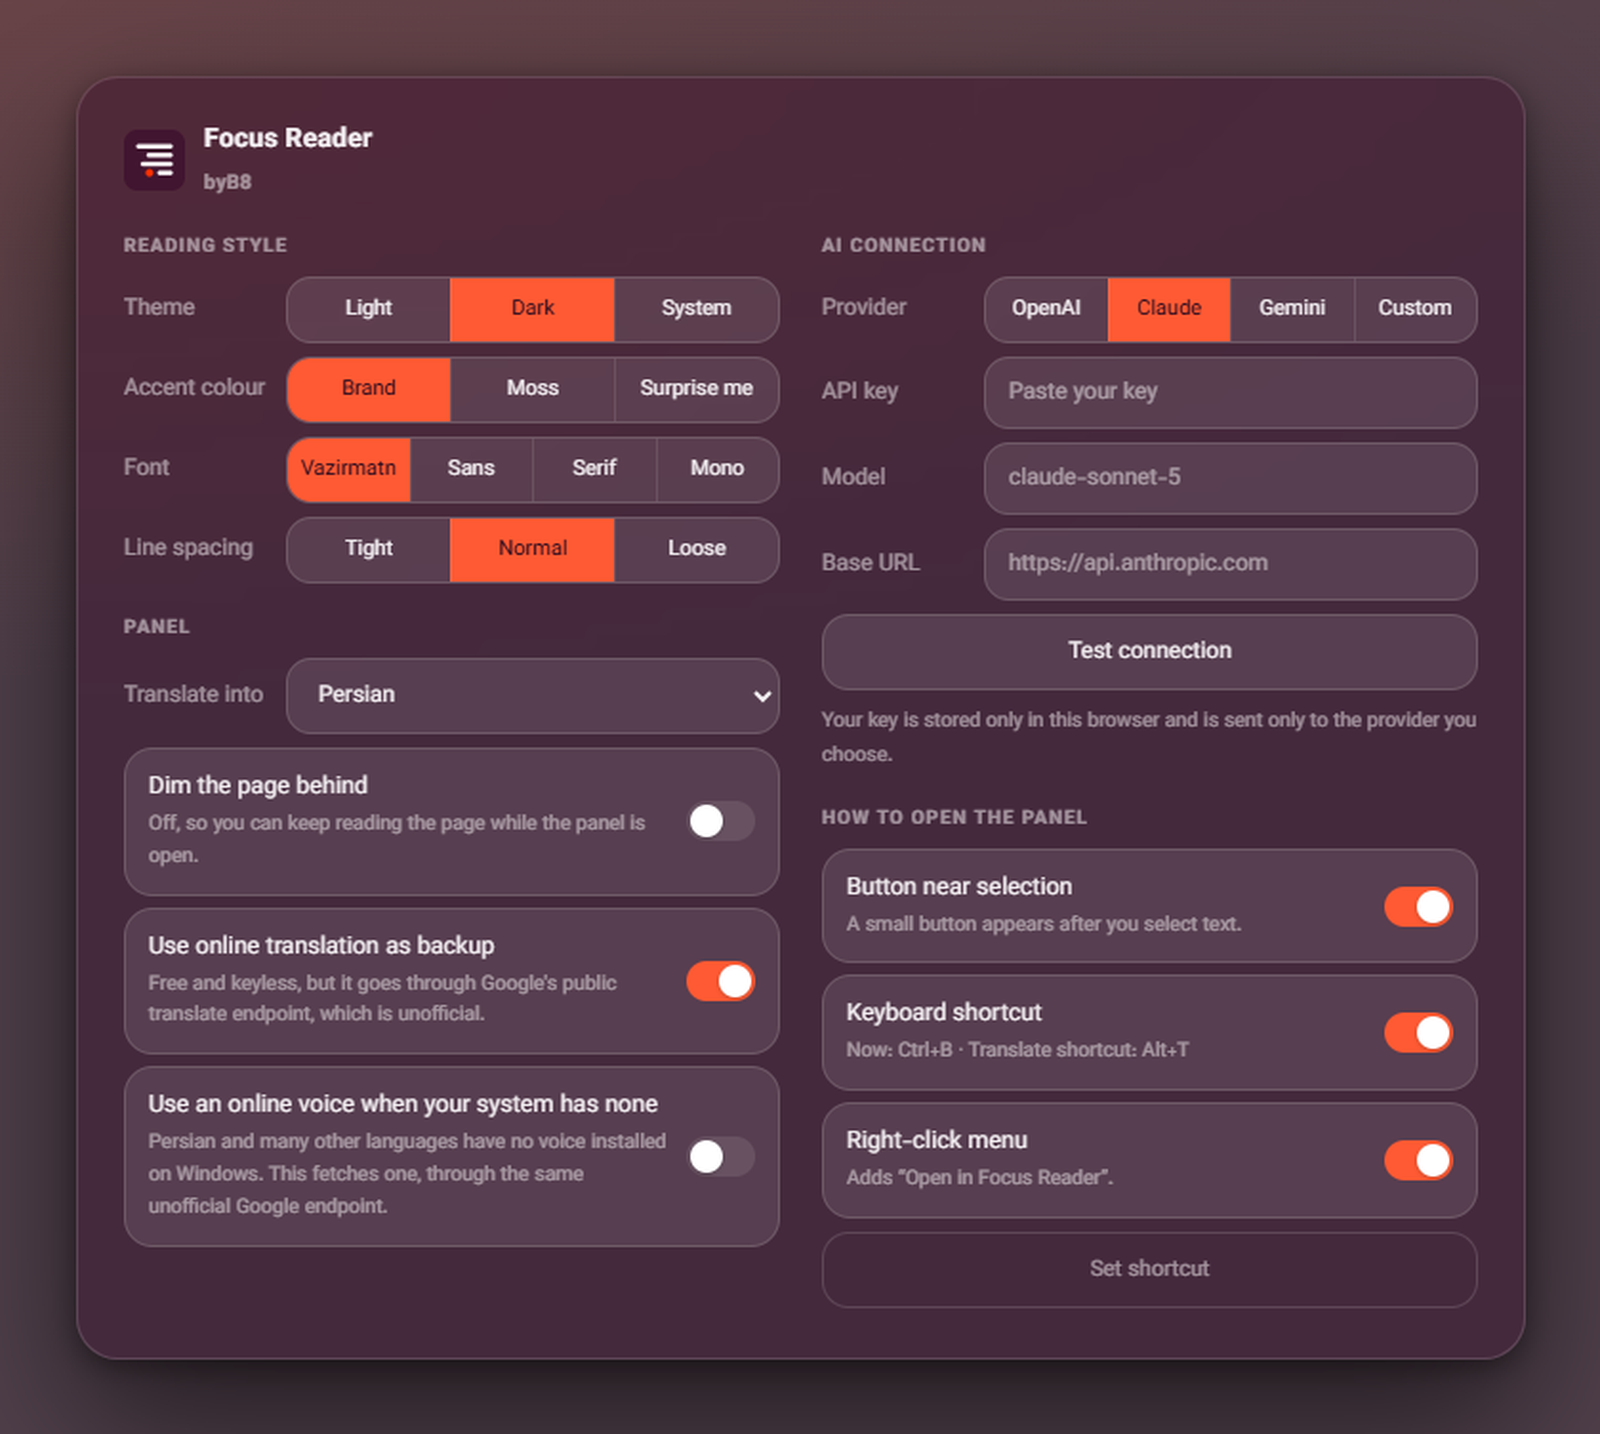
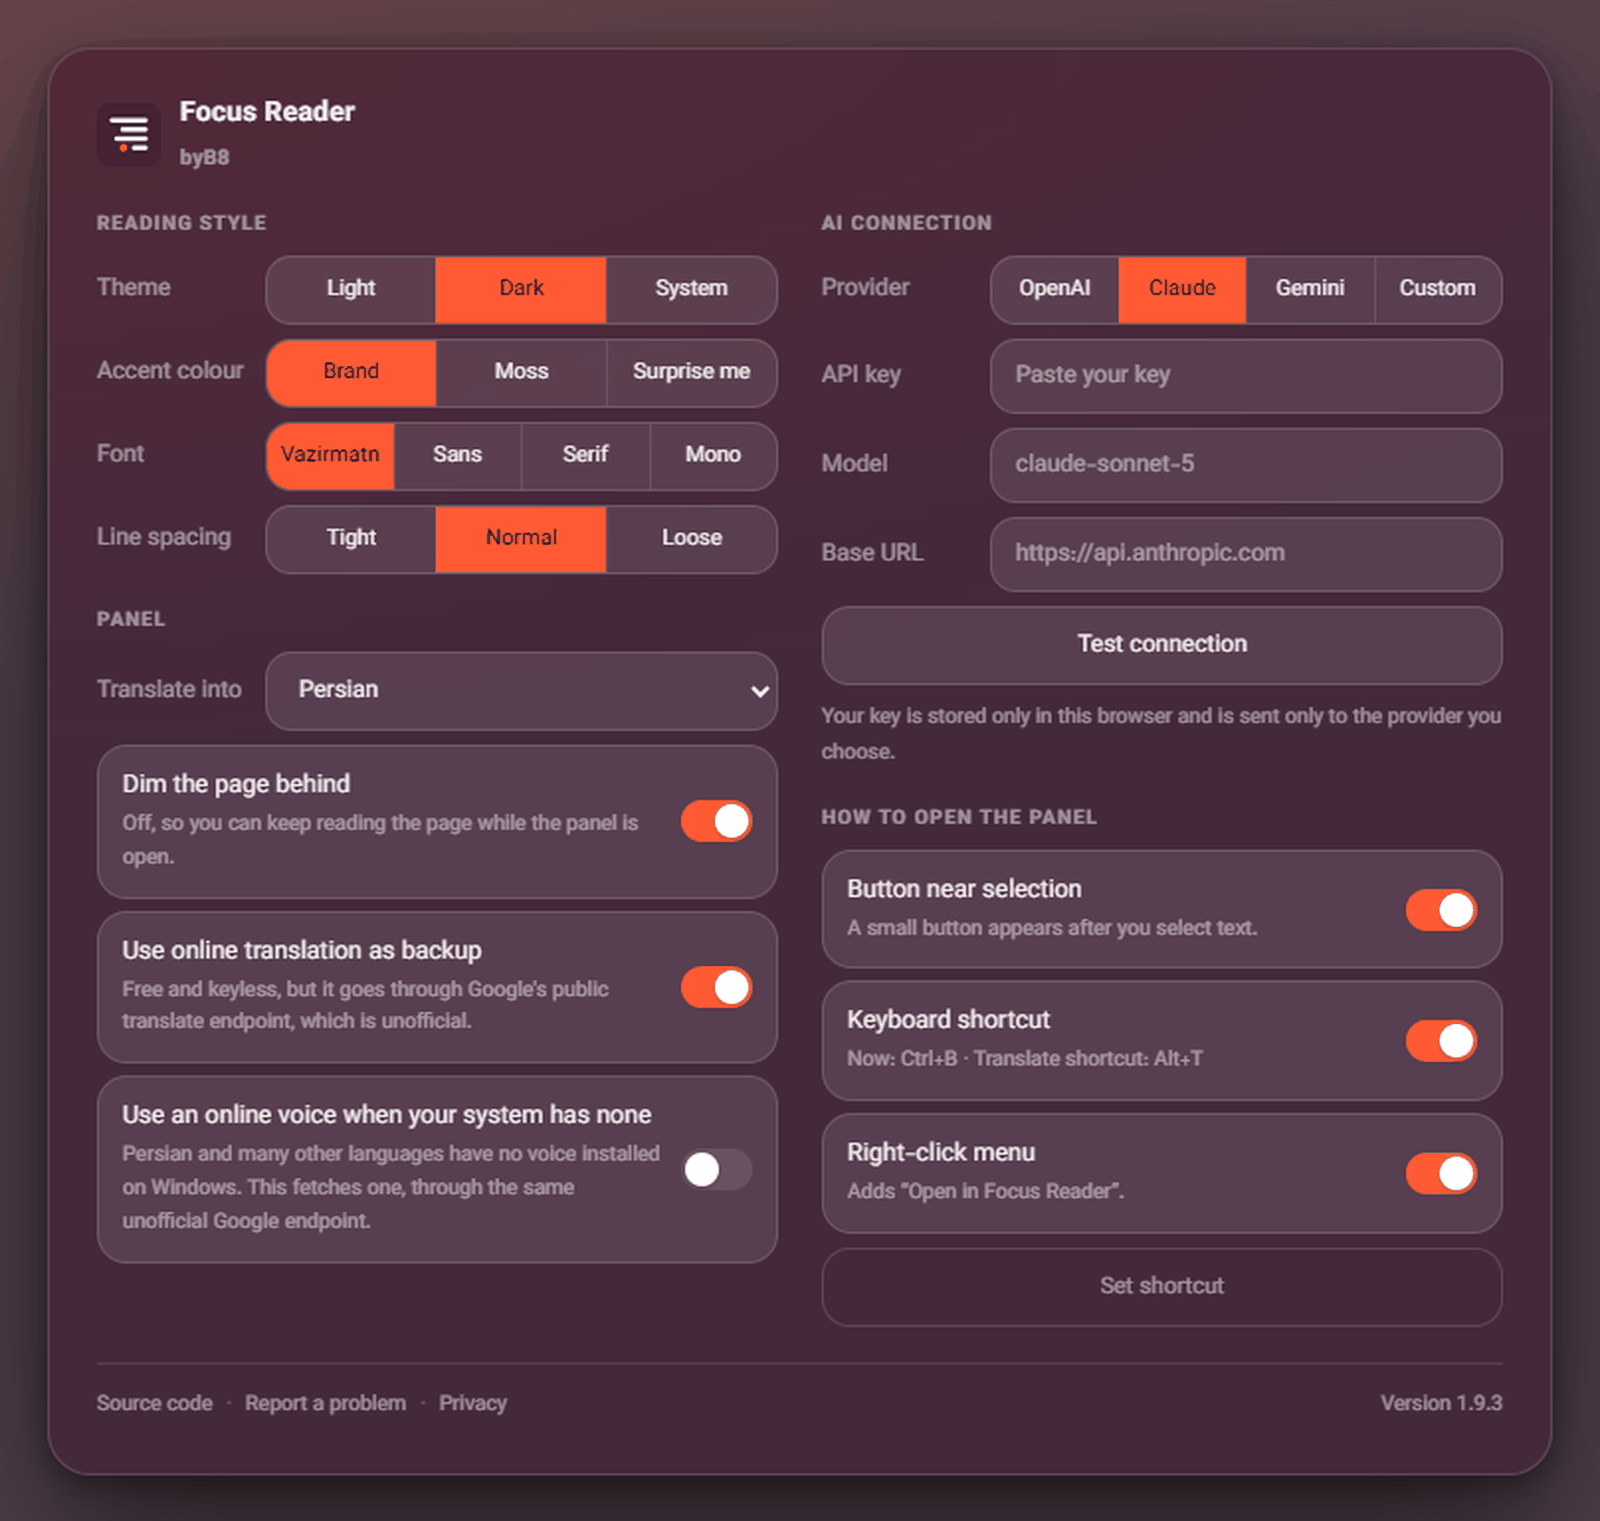
Docs: update the settings screenshot to 1.9.3 and restore the demo video link

diff --git a/README.fa.md b/README.fa.md
@@ -14,7 +14,7 @@
 
 ![Focus Reader settings](docs/media/settings.png)
 
-<!-- ویدیو: فایل final.mp4 را در ویرایشگر وب گیتهاب روی همین خط رها کنید، بعد این توضیح را پاک کنید -->
+https://github.com/user-attachments/assets/797e61bd-945e-49c3-a3f2-b2ff4a473d1b
 
 **در ویدیو:** سه روش باز کردن پنل · چند پنجره و جاگاه · ترجمه در جای متن · ابزارهای هوش مصنوعی با کلید خودتان · متنهای ذخیرهشده · پنل کناری · سبک خواندن
 

diff --git a/README.md b/README.md
@@ -12,7 +12,7 @@ Built byB8 · [by.b8hnam.com](https://by.b8hnam.com/) · [فارسی](README.fa.
 
 ![Focus Reader settings](docs/media/settings.png)
 
-<!-- VIDEO: drag final.mp4 into this line in GitHub's web editor, then delete this comment -->
+https://github.com/user-attachments/assets/797e61bd-945e-49c3-a3f2-b2ff4a473d1b
 
 **In the video:** three ways to open the panel · multiple windows and the dock · translation in place · bring-your-own-key AI actions · saved texts · side panel · reading style
 
